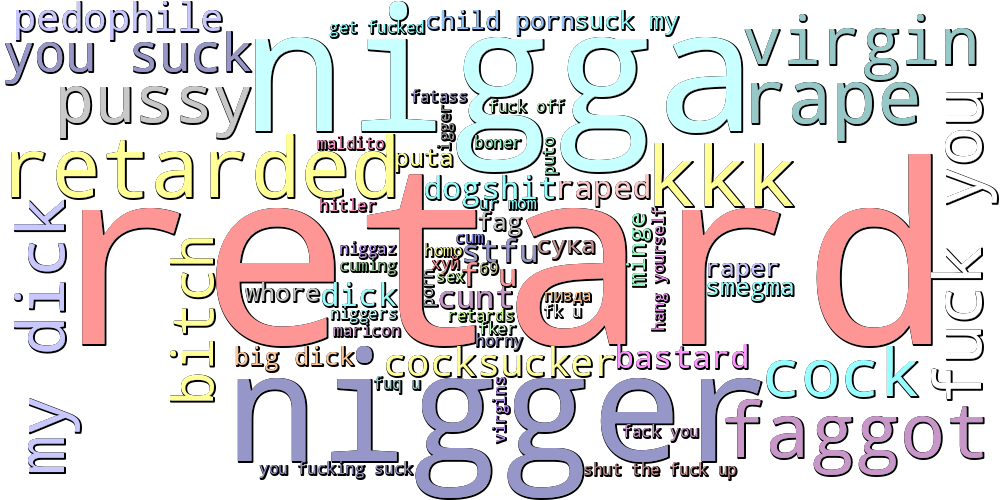
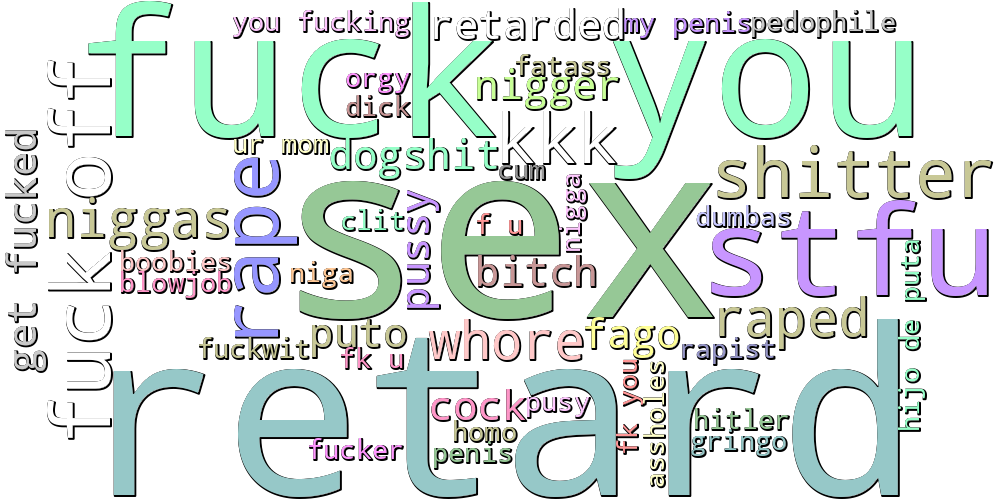
well done me for adding a space

diff --git a/sveltelexi/src/lib/morestuff/Search.svelte b/sveltelexi/src/lib/morestuff/Search.svelte
@@ -1,5 +1,6 @@
 <script lang="ts">
   import { goto } from '$app/navigation';
+  import { browser } from '$app/environment';
   import { usewsstore } from './websocketsearch';
   import '../../routes/Layout.css';
 	import { onMount } from 'svelte';
@@ -25,10 +26,15 @@
   let searchsuggestionholder: HTMLDivElement
   async function luckyfornexttime(){
       try{
-    await getlucky().refresh();
+    if (browser) await getlucky().refresh();
     luckysteam64 = await getlucky()
-     }catch{
-        alert(`lucky is not working ${getlucky().error}`);}
+     }catch (error){
+        if (browser) {
+          // window.alert(`lucky is not working ${error}`);
+        } else {
+          console.error('Failed to load a lucky profile', error);
+        }
+     }
         // console.log(luckysteam64)
   }
   $effect(() => usewsstore.subscribe((s) => (matches = s.matches)));

diff --git a/sveltelexi/src/lib/morestuff/badtimeline.svelte b/sveltelexi/src/lib/morestuff/badtimeline.svelte
@@ -128,10 +128,10 @@
 					
 					</span>
 					<span class="badwordhovercount"> 
-						{stuff.length}bad word{(stuff.length - 1 && 's') || ''},
+						{stuff.length} bad word{(stuff.length - 1 && 's') || ''},
 					</span>
 					{#if logmessages != null}<span class="loghovercount">
-							{logmessages}log{(logmessages - 1 && 's') || ''},
+							{logmessages} log{(logmessages - 1 && 's') || ''},
 						</span>{/if}
 								{#if logmessages != null}<span class="loghovercount" style = "color:rgb(100,200,100)">
 							{Number(  (stuff.length / (logmessages ?? 1)).toPrecision(2) ).toLocaleString()} Bad words / Log 
